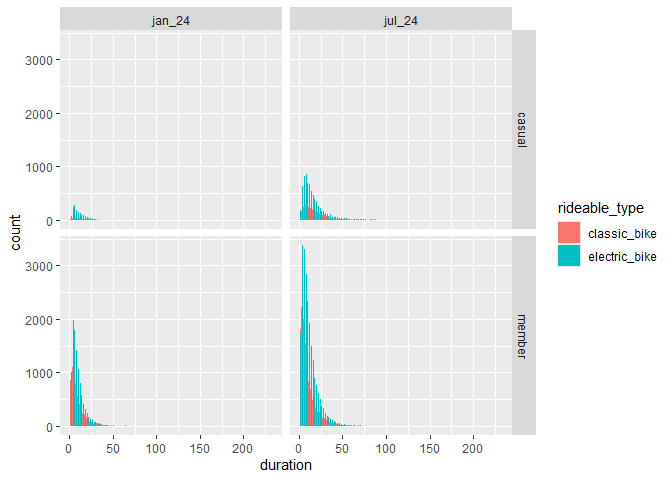
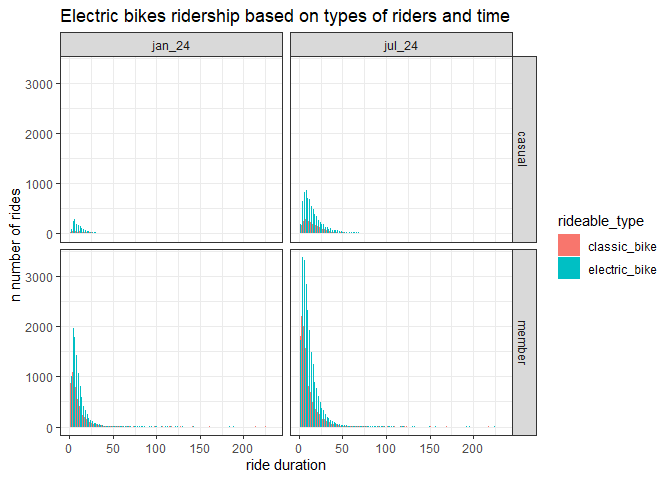
Add description, change some plot type

diff --git a/hw3_tpd2121.md b/hw3_tpd2121.md
@@ -25,7 +25,7 @@ library(ggridges)
 
 ## Problem 2
 
-2A. Loading the dataset
+**2A. Loading the dataset**
 
 ``` r
 demography = read.csv("./nhanes_covar.csv", 
@@ -67,7 +67,7 @@ complete_acc =
   )
 ```
 
-2B. Creating table and visualization for gender, education, and age
+**2B. Creating table and visualization for gender, education, and age**
 
 ``` r
 complete_acc %>% 
@@ -85,6 +85,13 @@ complete_acc %>%
 | female |                    23 |                   28 |                   59 |
 | male   |                    34 |                   27 |                   54 |
 
+Based on the table, we see that there are slightly more male than female
+participants. Based on education we see that the highest number of
+participants have education more than high school and the numbers are
+roughly the same in both sexes. The number of male and female with less
+than high school education was around the same, but there are more male
+compared to female in the high school equivalent category.
+
 ``` r
 complete_acc %>% 
   group_by(sex, education, age) %>% 
@@ -94,9 +101,21 @@ complete_acc %>%
     title = "Age distribution based on education and sex")
 ```
 
-![](hw3_tpd2121_files/figure-gfm/visualization-1.png)<!-- -->
+![](hw3_tpd2121_files/figure-gfm/visualization-1.png)<!-- --> I chose
+boxplot because it’s able to show the distribution more clearly compared
+to histogram or density plot. Looking at the `more than high school`
+category, we see that despite female having slightly more participants
+in the category compared to male, we see that in terms of distribution,
+male have slightly older age compared to female in the category based on
+the interquartile range of the boxplot. For the `less than high school`
+category, the numbers and distribution are similar for both male and
+female, but we see that male has younger participants (longer bottom
+tail). And finally, for the `high school equivalent`, we see that
+despite female having lower number of participants, the interquartile
+range of the boxplot showed that female participants in the category is
+older compared to male.
 
-2C. Total activity over the day
+**2C. Total activity over the day**
 
 ``` r
 total_df = 
@@ -115,7 +134,8 @@ ggplot(total_df, aes(x = age, y = act_total, color = sex)) +
   theme_bw() +
   labs(
     title = "Total physical activity based on age, education, and sex",
-    y = "Total physical activity per day")
+    y = "Total physical activity per day", 
+    caption = "Data from the NHAES package")
 ```
 
     ## `geom_smooth()` using method = 'loess' and formula = 'y ~ x'
@@ -126,28 +146,30 @@ ggplot(total_df, aes(x = age, y = act_total, color = sex)) +
 #do facet_grid (sex ~ education) if want to make 6 panel
 ```
 
-Based on the plot, we can see that there is a difference in the total
-activity based on age, education, and sex. For people who had education
-lower than highschool equivalent, the highest total activity per day is
-recorded at 30-50 years old group and decline afterwards. Female are
-shown to have higher activies per day compared to male in this group.
-People who have highschool equivalent education generally show
-decreasing trend of physical activity as they got older. This decline is
-more pronounced in female compared to male participants. There’s a jump
-in activities recorded around 50 to 60 years of age, before declining
-again. Lastly, in the people with higher than highschool education,
-female participants’ have plateauing activities until age 60 before
-declining. In male participants, there’s a slight dip from around age
-20s to 40s, before slightly jumping up and declining again at around age
-50.
+Using scatter plot, the data seems quite scattered and no pattern would
+seem clear for us readers if not for the smooth trend line added to each
+panel. Based on the plot, we can see that there is a difference in the
+total activity based on age, education, and sex. For people who had
+education `high school equivalent`, the highest total activity per day
+is recorded at 30-50 years old group and decline afterwards. Female are
+shown to have higher activities per day compared to male in this group.
+People who have `less than high school equivalent` education generally
+show decreasing trend of physical activity as they got older. This
+decline is more pronounced in female compared to male participants.
+There’s a jump in activities recorded around 50 to 60 years of age,
+before declining again. Lastly, in the people with
+`more than high school` education, female participants’ have plateauing
+activities until age 60 before declining. In male participants, there’s
+a slight dip from around age 20s to 40s, before slightly jumping up and
+declining again at around age 50.
 
-2D. 3 panel plot Accelerometer data allows the inspection activity over
-the course of the day. Make a three-panel plot that shows the 24-hour
-activity time courses for each education level and use color to indicate
-sex. Describe in words any patterns or conclusions you can make based on
-this graph; including smooth trends may help identify differences. x
-axis = minutes, y axis = mean activity, color line = sex, panel =
-education
+**2D. 3 panel plot** Accelerometer data allows the inspection activity
+over the course of the day. Make a three-panel plot that shows the
+24-hour activity time courses for each education level and use color to
+indicate sex. Describe in words any patterns or conclusions you can make
+based on this graph; including smooth trends may help identify
+differences. x axis = minutes, y axis = mean activity, color line = sex,
+panel = education
 
 ``` r
 timecourse_df = 
@@ -166,24 +188,28 @@ timecourse_df =
     ## argument.
 
 ``` r
+#trying to convert the minutes to hours, then plot the hours to the data
+```
+
+``` r
 ggplot(timecourse_df, aes(x = minutes, y = activity, color = sex)) + 
   geom_point(alpha = .5) +
   geom_smooth(se = FALSE) + 
   facet_grid(education ~ .) + 
-  theme_bw()
+  theme_bw() + 
+  labs(
+    title = "Progression of activity over 24h duration")
 ```
 
     ## `geom_smooth()` using method = 'loess' and formula = 'y ~ x'
 
 ![](hw3_tpd2121_files/figure-gfm/timecourse_plot-1.png)<!-- -->
 
-``` r
-#pretty sure have to convert the minutes to hours, then plot the hours to the data
-```
+Describe any patterns or comments from this graph
 
 ## Problem 3
 
-3A. Load and clean the data
+**3A. Load and clean the data**
 
 ``` r
 jan_2020 = read.csv("./Jan 2020 Citi.csv") %>% 
@@ -211,15 +237,15 @@ citibike_df =
 ```
 
 There are 4 data set in the citibike folder. The January 2020 data
-contains 12420, while the January 2024 data contains 18861 observations.
-Meanwhile, the July 2020 data contains 21048 while the July 2024
-contains 47156 observations. The variables on all data frame are quite
-similar, which are time, ride_id, rideable_type, weekdays, duration,
-start_station_name, end_station_name, member_casual, with the variable
-`time` is an additional variable I created to help with merging the data
-into `citibike_df`.
+contains 12420 observations, while the January 2024 data contains 18861
+observations. Meanwhile, the July 2020 data contains 21048 observations
+while the July 2024 contains 47156 observations. The variables on all
+data frame are quite similar, which are time, ride_id, rideable_type,
+weekdays, duration, start_station_name, end_station_name, member_casual,
+with the variable `time` is an additional variable I created to help
+with merging the data into `citibike_df`.
 
-3B. Reader friendly table
+**3B. Reader friendly table**
 
 ``` r
 citibike_df %>% 
@@ -238,37 +264,40 @@ citibike_df %>%
 | member        |  11436 |  16753 |  15411 |  36262 |
 
 From this table, we can see that in citibike members have higher
-ridership compared to casual riders from these 4 timepoints. We also see
-that while member ridership are increasing, the casual riders have a
+ridership compared to casual riders from these 4 time points. We also
+see that while member ridership are increasing, the casual riders have a
 steep drop from `jul_20` to `jan_24`.
 
-3C. 5 popular stations Make a table showing the 5 most popular starting
-stations for July 2024; include the number of rides originating from
-these stations.
+**3C. 5 popular stations** Make a table showing the 5 most popular
+starting stations for July 2024; include the number of rides originating
+from these stations.
 
 ``` r
 jul_2024 %>% 
   group_by(start_station_name) %>% 
-  summarise(count = n())
+  count(start_station_name, name = "ride_count") %>% 
+  mutate(ride_ranking = min_rank(ride_count))
 ```
 
-    ## # A tibble: 2,057 × 2
-    ##    start_station_name count
-    ##    <chr>              <int>
-    ##  1 1 Ave & E 110 St      33
-    ##  2 1 Ave & E 118 St      21
-    ##  3 1 Ave & E 16 St       73
-    ##  4 1 Ave & E 18 St       75
-    ##  5 1 Ave & E 30 St       57
-    ##  6 1 Ave & E 38 St       78
-    ##  7 1 Ave & E 39 St       68
-    ##  8 1 Ave & E 44 St       17
-    ##  9 1 Ave & E 6 St        85
-    ## 10 1 Ave & E 62 St       79
+    ## # A tibble: 2,057 × 3
+    ## # Groups:   start_station_name [2,057]
+    ##    start_station_name ride_count ride_ranking
+    ##    <chr>                   <int>        <int>
+    ##  1 1 Ave & E 110 St           33            1
+    ##  2 1 Ave & E 118 St           21            1
+    ##  3 1 Ave & E 16 St            73            1
+    ##  4 1 Ave & E 18 St            75            1
+    ##  5 1 Ave & E 30 St            57            1
+    ##  6 1 Ave & E 38 St            78            1
+    ##  7 1 Ave & E 39 St            68            1
+    ##  8 1 Ave & E 44 St            17            1
+    ##  9 1 Ave & E 6 St             85            1
+    ## 10 1 Ave & E 62 St            79            1
     ## # ℹ 2,047 more rows
 
 ``` r
-  #rank function? and then make the plot
+  #how to do the rank function??
+  #then do the plot
 ```
 
 3D. Plot Make a plot to investigate the effects of day of the week,
@@ -282,9 +311,14 @@ citibike_df %>%
   summarise(
     median = median(duration, na.rm = TRUE)) %>% 
   ggplot(aes(x = weekdays, y = median)) + 
-  geom_point(aes(color = time), alpha = .5) +
-  geom_smooth(se = FALSE) + 
-  theme_bw()
+  geom_point(aes(color = time)) +
+  geom_smooth(se = FALSE) +
+  theme_bw() + 
+  facet_grid (time ~.) + 
+  labs(
+    title = "Ride duration over week and 4 timepoints", 
+    x = "days of the week",
+    y = "median of ride duration")
 ```
 
     ## `summarise()` has grouped output by 'time'. You can override using the
@@ -295,6 +329,7 @@ citibike_df %>%
 
 ``` r
 #the trendline is missing
+#can remove the panel and merge into 1 if you want
 #x axis sorted alphabetically, not days in orders
 ```
 
@@ -312,7 +347,13 @@ citibike_df %>%
   filter(time %in% c("jan_24", "jul_24")) %>% 
   ggplot(aes(x = duration, fill = rideable_type)) + 
   geom_histogram(position = "dodge", binwidth = 2) + 
-  facet_grid(member_casual ~ time)
+  theme_bw() +
+  facet_grid(member_casual ~ time) + 
+  labs(
+    title = "Electric bikes ridership based on types of riders and time", 
+    x = "ride duration",
+    y = "n number of rides", 
+    color = "types of riders")
 ```
 
 ![](hw3_tpd2121_files/figure-gfm/electric-1.png)<!-- --> I used
